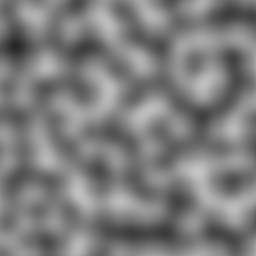
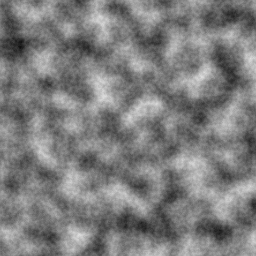
Finish perlin2D

diff --git a/perlin2D.py b/perlin2D.py
@@ -17,7 +17,7 @@ def gradient(x, y) :
 
    return _array
 
-def eval(x, y) :
+def eval(x, y, lacunarity, persistance) :
    #  p4(x_floor, y_ceiling)   p43     p3(x_ceiling, y_ceiling)
    #
    #                           pxy(x,y)  
@@ -26,38 +26,41 @@ def eval(x, y) :
    #       
    # first do p12 and then p43
    # final do pxy
+   pxy = 0 
+   for i in range(4):
+      x = x * math.pow(lacunarity, i)
+      y = y * math.pow(lacunarity, i)
+      x_floor = math.floor(x)
+      y_floor = math.floor(y)
+      x_ceiling = x_floor + 1 
+      y_ceiling = y_floor + 1 
+      p1_dir = np.array([x-x_floor, y-y_floor]) 
+      p2_dir = np.array([x-x_ceiling, y-y_floor])
+      p3_dir = np.array([x-x_ceiling, y-y_ceiling])
+      p4_dir = np.array([x-x_floor, y-y_ceiling]) 
 
-   x_floor = math.floor(x)
-   y_floor = math.floor(y)
-   x_ceiling = x_floor + 1 
-   y_ceiling = y_floor + 1 
-   p1_dir = np.array([x-x_floor, y-y_floor]) 
-   p2_dir = np.array([x-x_ceiling, y-y_floor])
-   p3_dir = np.array([x-x_ceiling, y-y_ceiling])
-   p4_dir = np.array([x-x_floor, y-y_ceiling]) 
 
+      # get gradient
+      p1_gra = gradient(x_floor, y_floor)
+      p2_gra = gradient(x_ceiling, y_floor)
+      p3_gra = gradient(x_ceiling, y_ceiling)
+      p4_gra = gradient(x_floor, y_ceiling)
 
-   # get gradient
-   p1_gra = gradient(x_floor, y_floor)
-   p2_gra = gradient(x_ceiling, y_floor)
-   p3_gra = gradient(x_ceiling, y_ceiling)
-   p4_gra = gradient(x_floor, y_ceiling)
+      # do dot calculation 
+      p1_dot = np.dot(p1_dir, p1_gra)
+      p2_dot = np.dot(p2_dir, p2_gra)
+      p3_dot = np.dot(p3_dir, p3_gra)
+      p4_dot = np.dot(p4_dir, p4_gra)
 
-   # do dot calculation 
-   p1_dot = np.dot(p1_dir, p1_gra)
-   p2_dot = np.dot(p2_dir, p2_gra)
-   p3_dot = np.dot(p3_dir, p3_gra)
-   p4_dot = np.dot(p4_dir, p4_gra)
+      #interpolation
+      d = x - x_floor 
+      smooth_factor = 6.0 * math.pow(d, 5.0) - 15.0 * math.pow(d, 4.0) + 10.0 * math.pow(d, 3.0)
+      p12 = p1_dot * (1.0 - smooth_factor) + p2_dot * smooth_factor
+      p43 = p4_dot * (1.0 - smooth_factor) + p3_dot * smooth_factor
 
-   #interpolation
-   d = x - x_floor 
-   smooth_factor = 6.0 * math.pow(d, 5.0) - 15.0 * math.pow(d, 4.0) + 10.0 * math.pow(d, 3.0)
-   p12 = p1_dot * (1.0 - smooth_factor) + p2_dot * smooth_factor
-   p43 = p4_dot * (1.0 - smooth_factor) + p3_dot * smooth_factor
-
-   d = y - y_floor
-   smooth_factor = 6.0 * math.pow(d, 5.0) - 15.0 * math.pow(d, 4.0) + 10.0 * math.pow(d, 3.0)
-   pxy = p12 * (1.0 - smooth_factor) + p43 * smooth_factor
+      d = y - y_floor
+      smooth_factor = 6.0 * math.pow(d, 5.0) - 15.0 * math.pow(d, 4.0) + 10.0 * math.pow(d, 3.0)
+      pxy = pxy + (p12 * (1.0 - smooth_factor) + p43 * smooth_factor) * math.pow(persistance, i)
 
    return pxy
    

diff --git a/Render.py b/Render.py
@@ -40,28 +40,26 @@ def perlin():
     print(scale)
     for i in range(x):
         for j in range(y):
-            space[i][j] = map_to_0_255(perlin2D.eval(i/scale,j/scale))
+            space[i][j] = map_to_0_255(perlin2D.eval(i/scale,j/scale, 2, 0.5))
     space_map = map(space,x,y)
     
     return space_map
-    # plt.xlabel('x')
-    # plt.ylabel('y')
-    # plt.imshow(space, cmap = 'gray', vmin = 0, vmax = 255)
-    # plt.show()
 
 def texture_index(value):
     if value < 90 :
         return 0
-    elif value < 103 :
+    elif value < 96 :
         return 1
-    elif value < 127 :
+    elif value < 104 :
         return 2
-    elif value < 140 :
+    elif value < 130 :
         return 3
-    elif value < 180 :
+    elif value < 155 :
         return 4
-    else :
+    elif value < 180 :
         return 5
+    else :
+        return 6
 
 def generate_height_map(_map):
     space_height = imgWrapper(_map.getMdata().tolist())
@@ -71,8 +69,8 @@ def generate_texture_map(_map):
     texture_range = []
     colordata = [[_map.getMdata()[i, j] for j in range(_map.gety())] for i in range(_map.getx())]
     # colordata = _map.getMdata()
-    texture_file = [imgWrapper('Texture/water.png'), imgWrapper('Texture/sand.png'), imgWrapper('Texture/rock1.png'), imgWrapper('Texture/rock3.png')
-                    , imgWrapper('Texture/grass.png'), imgWrapper('Texture/snow.png')]
+    texture_file = [imgWrapper('Texture/water1.jpg'), imgWrapper('Texture/Sand1.jpg'), imgWrapper('Texture/Sand.png'), imgWrapper('Texture/Grass1.jpg') 
+                    , imgWrapper('Texture/Grass2.jpg'), imgWrapper('Texture/grass.png'), imgWrapper('Texture/snow2.jpg')]
     
     # for i in range(5):
     #     temp_range = []

diff --git a/test_perlin2D.py b/test_perlin2D.py
@@ -1,0 +1,21 @@
+import numpy as np
+import random
+import perlin2D
+import matplotlib.pyplot as plt
+
+def map_to_0_255(value):
+    new_value = (value + 1) * 255 / 2
+    return int(new_value)
+
+x = 256 
+y = 256
+terrain = np.zeros((x,y))
+scale = random.randint(20,40)
+for i in range(x):
+    for j in range(y):
+        terrain[i][j] = map_to_0_255(perlin2D.eval(i/scale, j/scale, 2, 0.5))
+
+plt.xlabel('x')
+plt.ylabel('y')
+plt.imshow(terrain, cmap = 'gray', vmin = 0, vmax = 255)
+plt.show()
